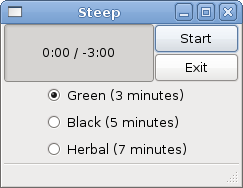
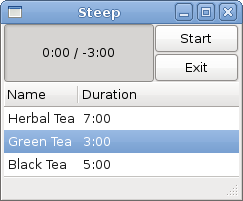
Updated steep page for new release (with different UI)
git-svn-id: file:///home/mt/data/subversion/web/localstatic.com@194 25aa0472-a5d5-0310-b9f0-db4f2a0ab381

diff --git a/steep.php b/steep.php
@@ -5,18 +5,27 @@ include 'tmpl/head.php';
 ?>
 <h2>Steep</h2>
 
-<img src="images/screenshot-steep.png" width="243" height="188" style="float: right; margin: 5px;"/>
+<div style="width: 250px; float: right">
+	<img src="images/screenshot-steep.png" width="243" height="201" style="margin: 5px;"/>
+	<img src="images/screenshot-steep-running.png" width="243" height="201" style="margin: 5px;"/>
+</div>
+
 <p>
 Steep is a tea timer application written in Python &amp; using PyGTK and Glade for the GUI. I wrote it so that I could use the same program on Linux and Windows. It runs on both platforms, assuming the prerequisites are installed. It likely will run on other platforms as well, but I have not tested this.
 </p>
+
+<h3>Features</h3>
+<ul>
+	<li>User-configurable timers</li>
+	<li>User-configurable "finished" message</li>
+</ul>
 
 <h3>To Do</h3>
 <p>
 The program works decently now, but there are some things that I will be adding to bring it to the point that it fulfills my needs better:
 </p>
 <ul>
-	<li>User-configurable timers</li>
-	<li>User-configurable "finished" message</li>
+	<li>Sorting of timers list</li>
 	<li>Optionally play a sound when finished</li>
 </ul>
 
